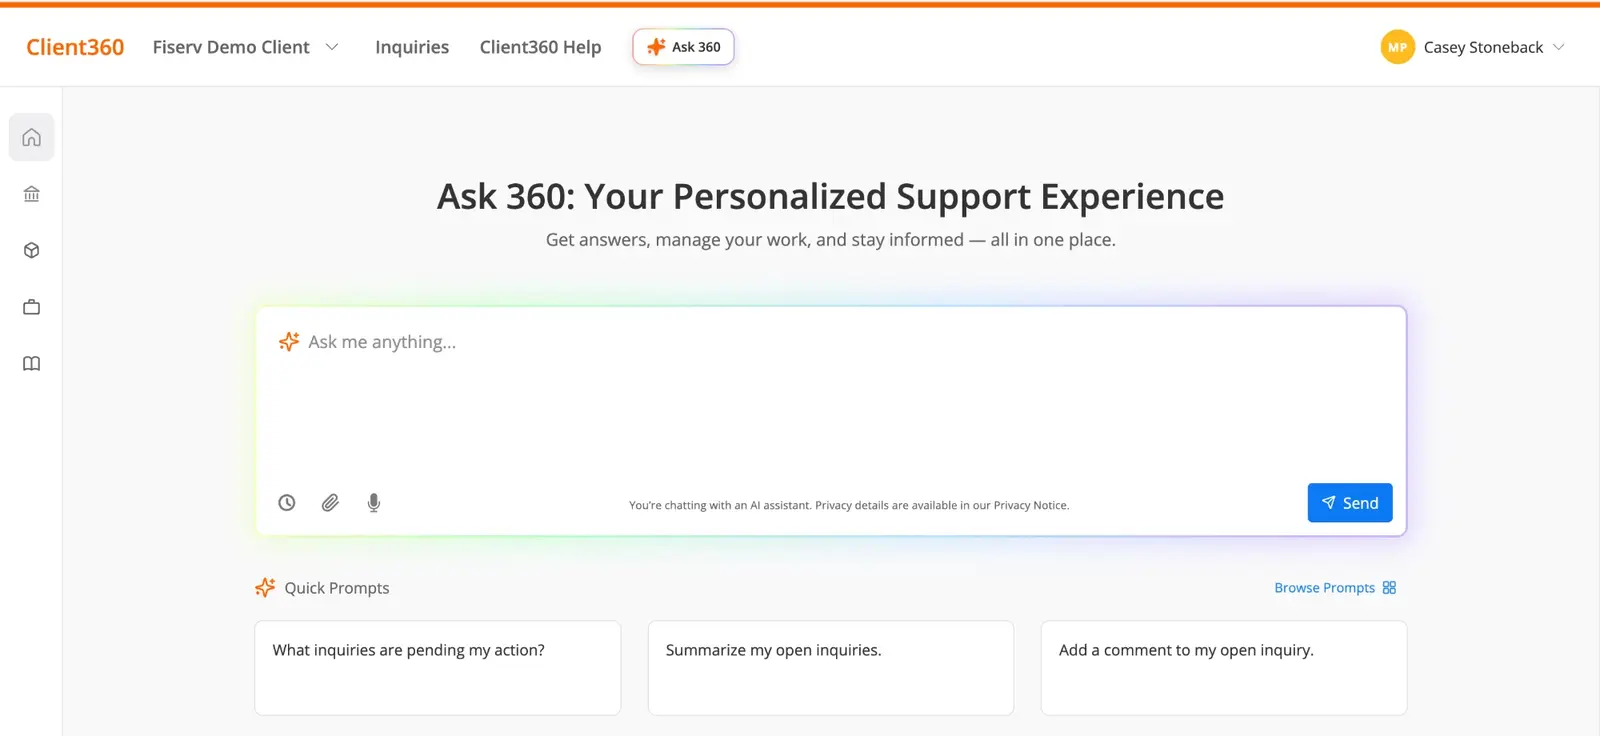
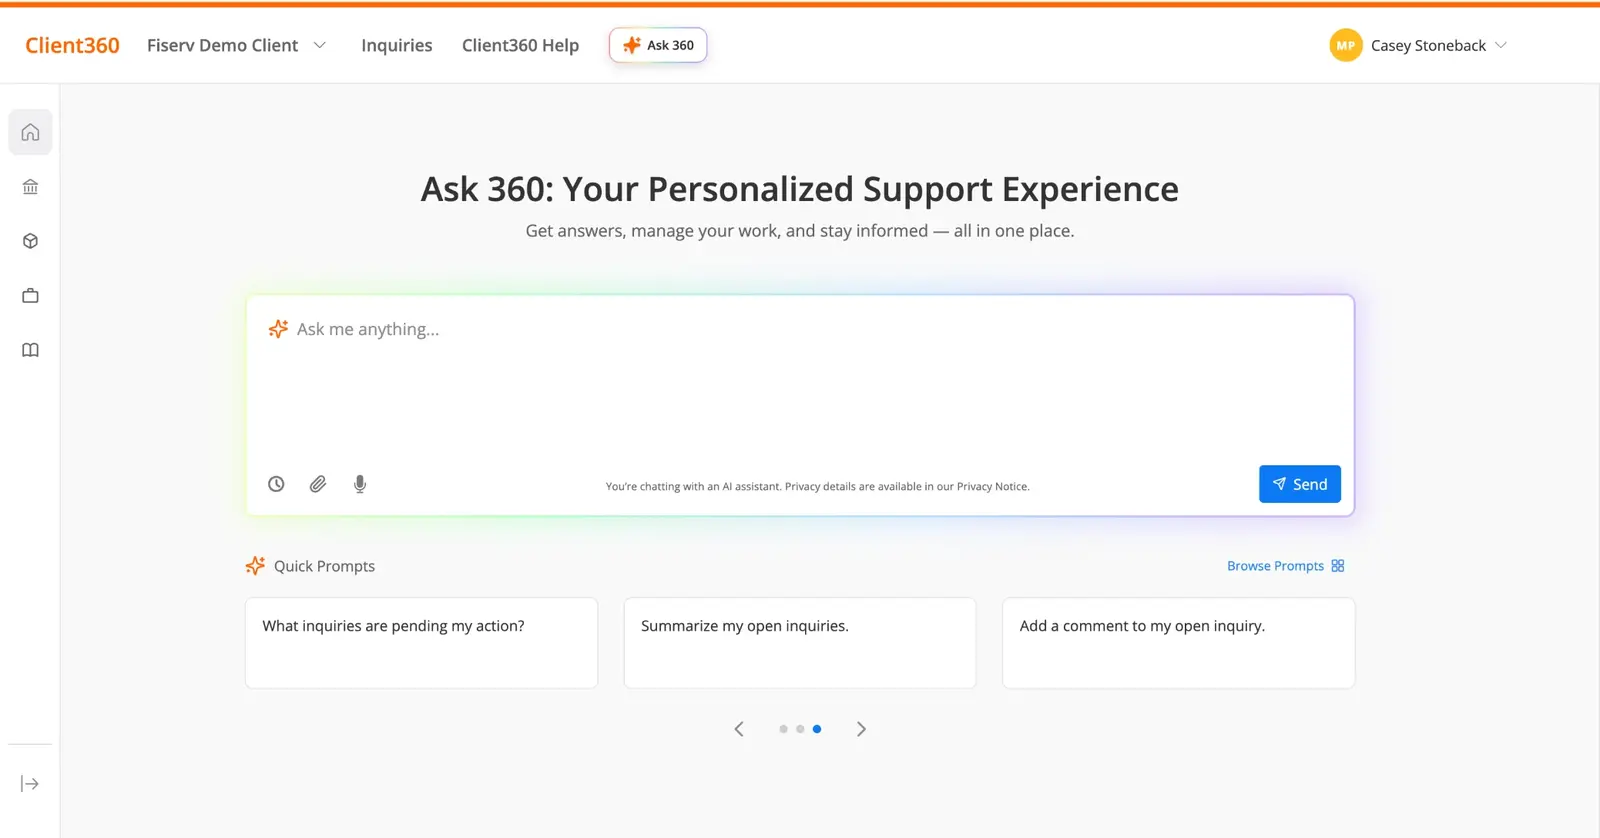
Centre the ask-anything field in both Ask 360 screenshots
Keeps the whole screen, nav and sidebar included, and centres the field
horizontally by widening the canvas 77px on the right rather than
cropping the left, which would have clipped the Client360 logo. The
right edge is flat within each band (orange bar, white nav, grey body),
so replicating it is seamless.

Measured rather than eyeballed: the composer's pure-white interior now
centres within 0.5px of the frame on the card and 1.5px on the case
study image.

Claude-Session: https://claude.ai/code/session_01KqA7QoJsgiT9ekyeZLtB6S

diff --git a/index.html b/index.html
@@ -5,7 +5,7 @@
 <meta name="viewport" content="width=device-width, initial-scale=1.0">
 <title>Casey Stoneback</title>
 <meta name="description" content="Casey Stoneback, product and UX designer doing conversational design for AI at Fiserv.">
-<link rel="stylesheet" href="css/style.css?v=28">
+<link rel="stylesheet" href="css/style.css?v=29">
 </head>
 <body>
 
@@ -75,7 +75,7 @@
               <span class="frame-dot"></span>
               <span class="frame-dot"></span>
             </div>
-            <img src="assets/images/ask360-card.webp" alt="Ask 360 inside the Client360 portal, showing the ask-anything field" width="1200" height="375" loading="lazy">
+            <img src="assets/images/ask360-card.webp" alt="Ask 360 inside the Client360 portal: an ask-anything field above quick prompts for pending and open inquiries" width="1200" height="629" loading="lazy">
           </div>
         </div>
       </div>
@@ -131,6 +131,6 @@
   </div>
 </footer>
 
-<script src="js/reveal.js?v=28" defer></script>
+<script src="js/reveal.js?v=29" defer></script>
 </body>
 </html>

diff --git a/work/ask360.html b/work/ask360.html
@@ -4,7 +4,7 @@
 <meta charset="UTF-8">
 <meta name="viewport" content="width=device-width, initial-scale=1.0">
 <title>Ask 360: AI Support Assistant | Casey Stoneback</title>
-<link rel="stylesheet" href="../css/style.css?v=28">
+<link rel="stylesheet" href="../css/style.css?v=29">
 </head>
 <body>
 
@@ -78,7 +78,7 @@
           <span class="frame-dot"></span>
           <span class="frame-dot"></span>
         </div>
-        <img src="../assets/images/ask360-portal.webp" alt="Ask 360 open in the Client360 portal, with an ask-anything field and quick prompts for pending and open inquiries" width="1600" height="736" loading="lazy">
+        <img src="../assets/images/ask360-portal.webp" alt="Ask 360 open in the Client360 portal, with an ask-anything field and quick prompts for pending and open inquiries" width="1600" height="838" loading="lazy">
       </div>
       <figcaption>Ask 360 in the portal. The client describes the problem in their own words instead of guessing search terms.</figcaption>
     </figure>

diff --git a/work/projects.html b/work/projects.html
@@ -4,7 +4,7 @@
 <meta charset="UTF-8">
 <meta name="viewport" content="width=device-width, initial-scale=1.0">
 <title>Projects and Implementations in the Client Portal | Casey Stoneback</title>
-<link rel="stylesheet" href="../css/style.css?v=28">
+<link rel="stylesheet" href="../css/style.css?v=29">
 </head>
 <body>
 

diff --git a/work/lineleap.html b/work/lineleap.html
@@ -4,7 +4,7 @@
 <meta charset="UTF-8">
 <meta name="viewport" content="width=device-width, initial-scale=1.0">
 <title>Deciding What to Build in LineLeap Social | Casey Stoneback</title>
-<link rel="stylesheet" href="../css/style.css?v=28">
+<link rel="stylesheet" href="../css/style.css?v=29">
 </head>
 <body>
 

diff --git a/about.html b/about.html
@@ -4,7 +4,7 @@
 <meta charset="UTF-8">
 <meta name="viewport" content="width=device-width, initial-scale=1.0">
 <title>About | Casey Stoneback</title>
-<link rel="stylesheet" href="css/style.css?v=28">
+<link rel="stylesheet" href="css/style.css?v=29">
 </head>
 <body>
 

diff --git a/README.md b/README.md
@@ -25,6 +25,13 @@ from the interview round. `work/projects.html` has no screenshots at all yet, so
 its home page card uses the `.is-text` single-column format; drop the two-column
 format back in once there is a visual.
 
+The two Ask 360 screenshots were widened by 77px on the right before export.
+The portal has a left sidebar, so the content column's centre is not the
+window's centre, and the ask-anything field read as off-centre in the frame.
+Cropping the left to fix it clipped the Client360 logo, so the right edge
+(flat per band: orange bar, white nav, grey body) was replicated instead. Rebuild
+with the same offset if the source screenshot is ever replaced.
+
 Figure conventions: `.cs-artifact` is a padded white card for flat exports,
 `.cs-slide` is a bordered clip for deck slides that carry their own background,
 `.cs-phones` is a wrapping row of phone screenshots (min 150px so they never
